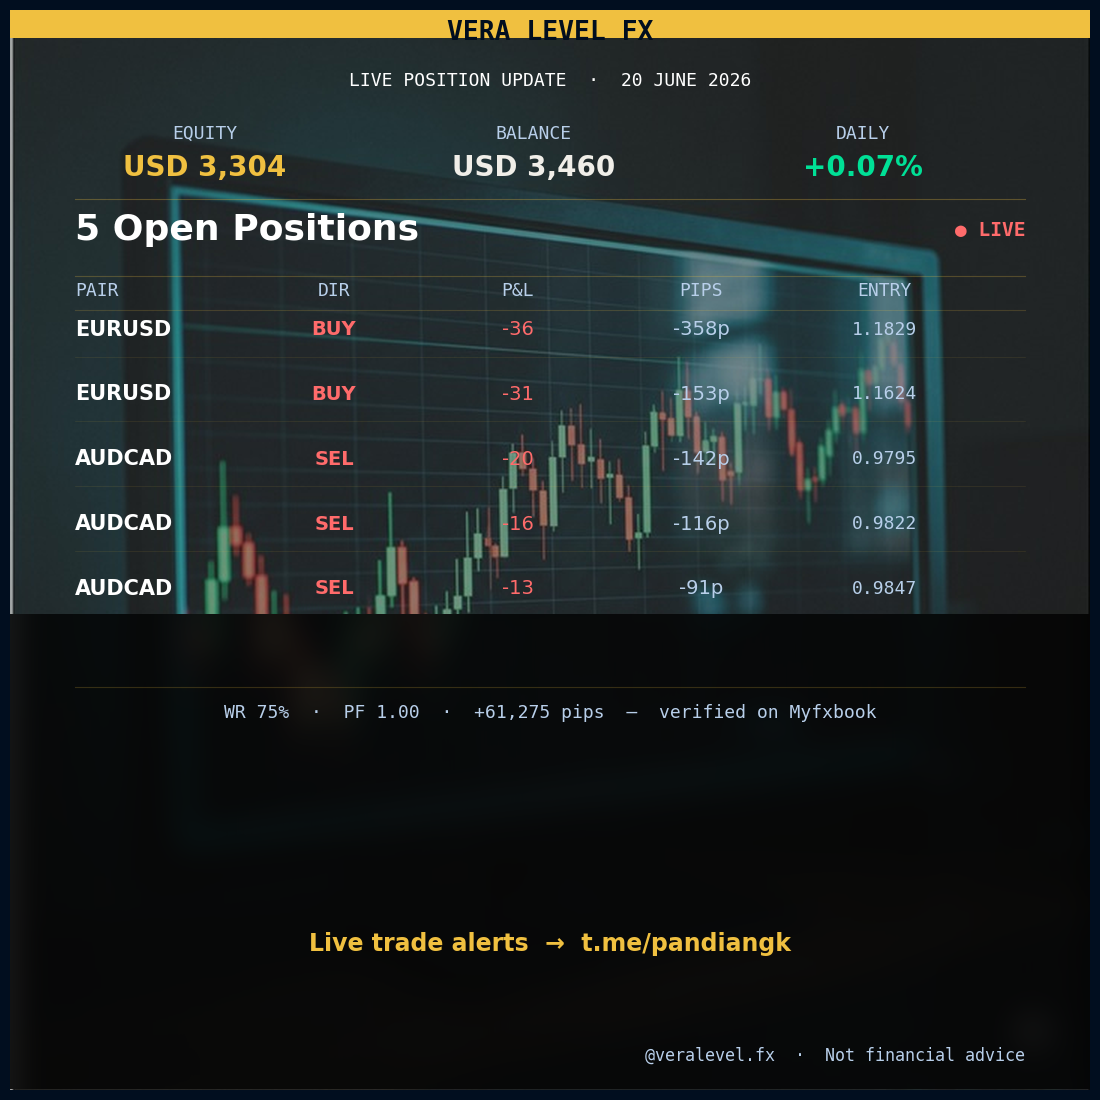
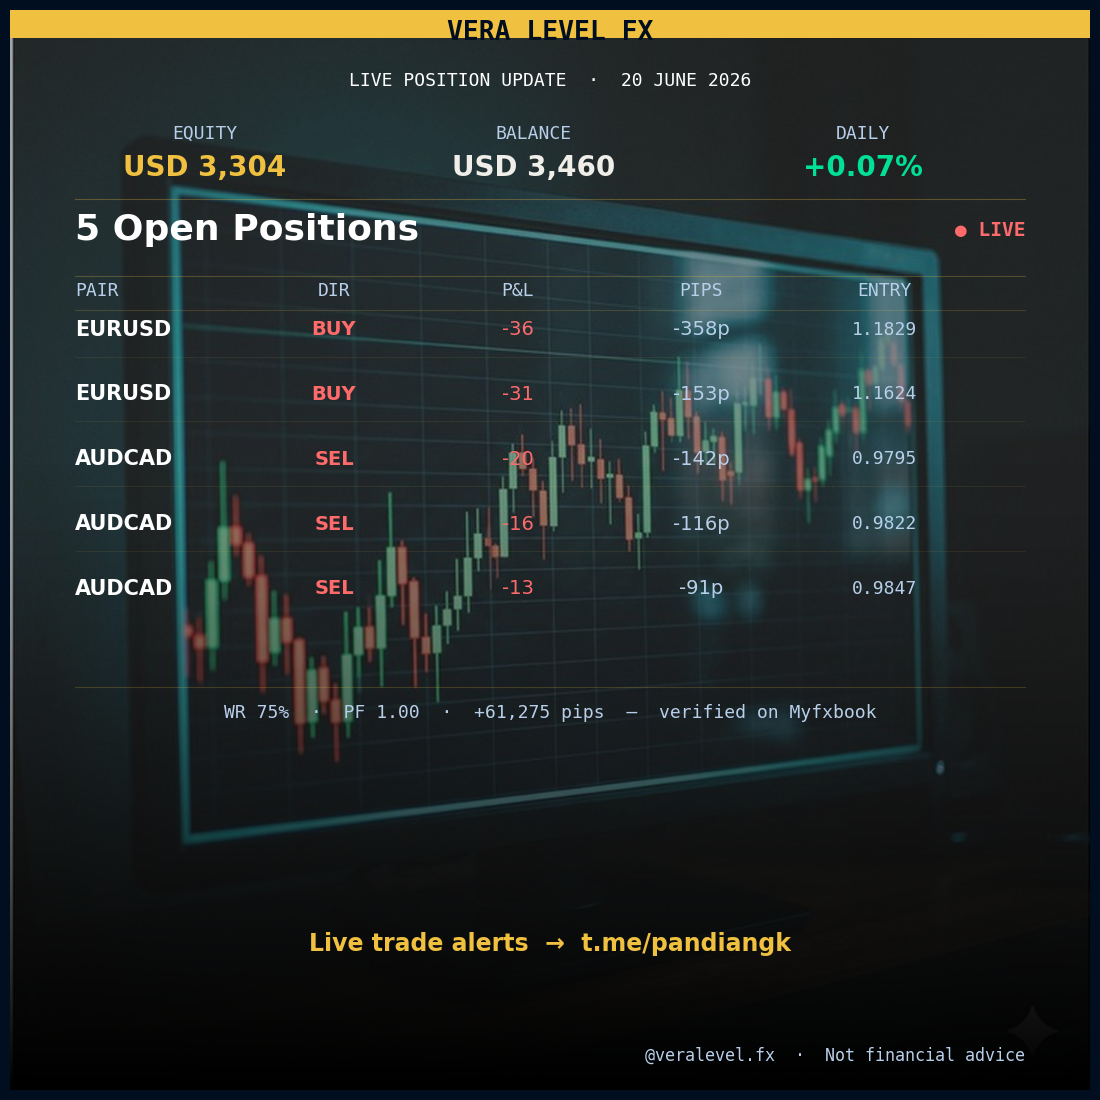
fix: replace frosted_glass black box with gradient_panel on daily card
frosted_glass_region at 76% darkness was rendering as a solid black
rectangle in the bottom half. Switched to gradient_panel(height_frac=0.58)
so the AI trading desk background shows through the full image.

Changed region(s): [[0.1545, 0.5564, 0.8964, 0.7727], [0.0, 0.5564, 0.1236, 0.68]]

diff --git a/instagram/generate_status.py b/instagram/generate_status.py
@@ -71,7 +71,7 @@ def _fmt_price(p: float) -> str:
 
 
 def make_daily_card(data: dict):
-    from instagram.composer import load_background, frosted_glass_region
+    from instagram.composer import load_background, gradient_panel
     from pathlib import Path
 
     account     = data.get('account', {})
@@ -94,11 +94,7 @@ def make_daily_card(data: dict):
     rows = rows[:5]
 
     bg_path = Path(__file__).parent / 'assets' / 'bg-daily.jpg'
-    bg = frosted_glass_region(
-        load_background(bg_path),
-        y_frac=0.56, h_frac=0.44,
-        blur_r=14, darkness=0.76,
-    )
+    bg = gradient_panel(load_background(bg_path), height_frac=0.58)
 
     fig = plt.figure(figsize=SIZE, facecolor='black')
     ax = fig.add_axes([0, 0, 1, 1])
